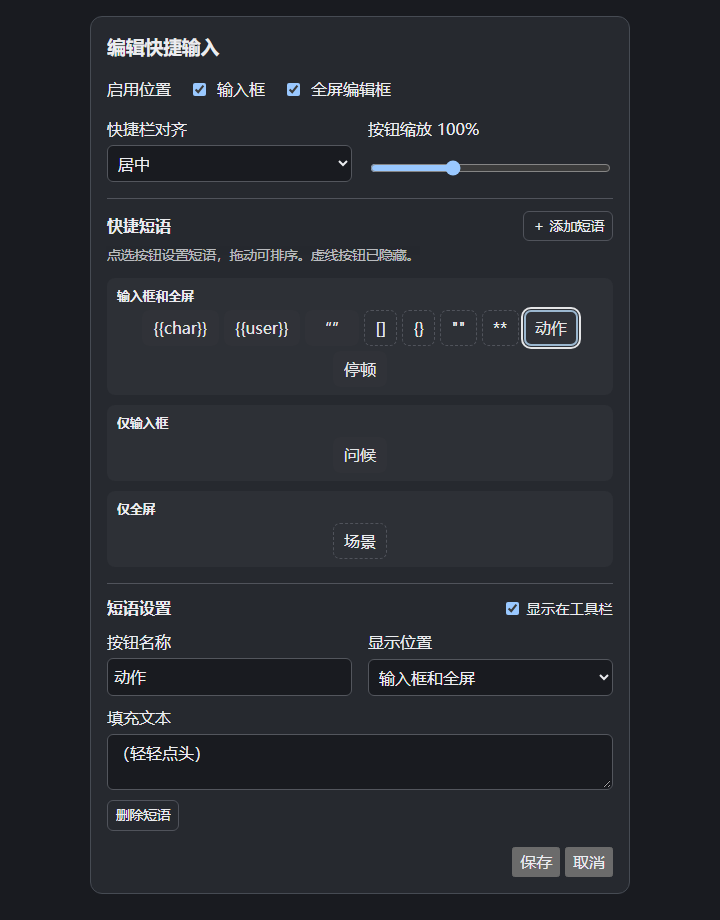
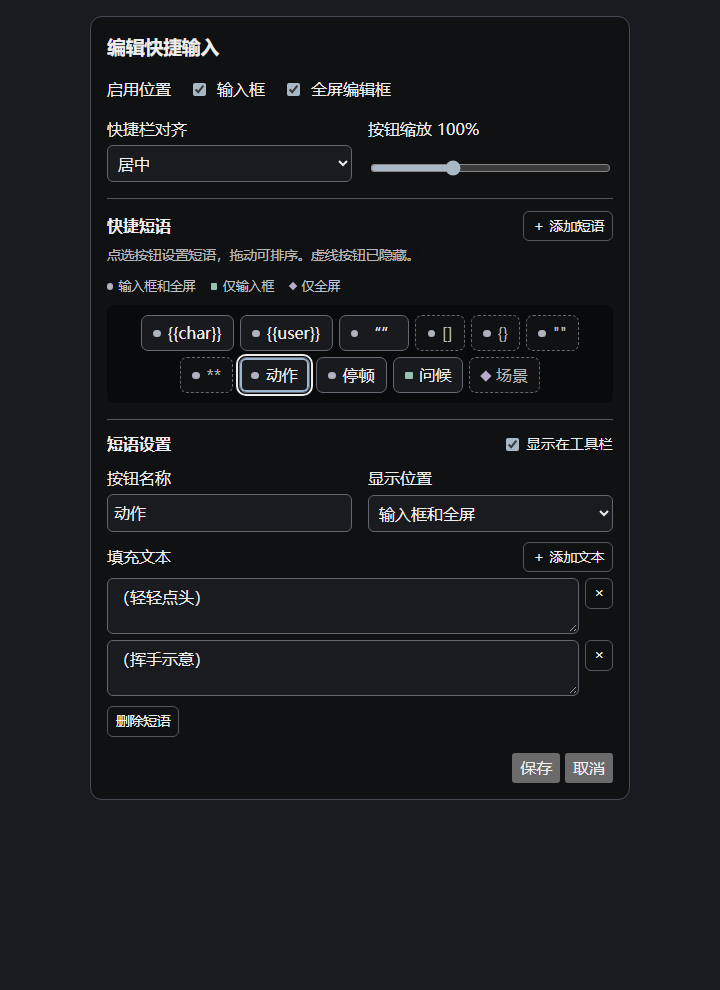
支持短语多文本随机填充与长按选择

diff --git a/tools/expanded-editor-shortcuts.js b/tools/expanded-editor-shortcuts.js
@@ -135,6 +135,79 @@ function renderSettings(canvas, config) {
     return addPhraseSettings(canvas, config);
 }
 
+function enableTextPicker(button, getEditor, shortcut) {
+    let timer;
+    let suppressClick = false;
+    function openPicker() {
+        const editor = getEditor();
+        if (!button.isConnected || !editor?.isConnected) return;
+        const { selectionStart: start, selectionEnd: end } = editor;
+        const dialog = document.createElement('dialog');
+        dialog.className = 'st-phrase-picker';
+        dialog.setAttribute('aria-label', shortcut.name + ' · 选择填充文本');
+        const heading = document.createElement('h4');
+        heading.textContent = shortcut.name + ' · 选择填充文本';
+        dialog.append(heading);
+        for (const value of shortcut.texts) {
+            const option = document.createElement('button');
+            option.type = 'button';
+            option.textContent = value;
+            option.onclick = () => {
+                dialog.close();
+                if (editor.isConnected) replaceRange(editor, start, end, value, start + value.length);
+            };
+            dialog.append(option);
+        }
+        const cancel = document.createElement('button');
+        cancel.type = 'button';
+        cancel.className = 'st-phrase-cancel';
+        cancel.textContent = '取消';
+        cancel.onclick = () => dialog.close();
+        dialog.append(cancel);
+        dialog.onclose = () => {
+            dialog.remove();
+            editor.focus({ preventScroll: true });
+        };
+        button.after(dialog);
+        dialog.showModal();
+    }
+    button.title = '单击随机填充，长按选择文本';
+    button.setAttribute('aria-haspopup', 'dialog');
+    button.addEventListener('pointerdown', down => {
+        if (!down.isPrimary || down.button !== 0) return;
+        clearTimeout(timer);
+        suppressClick = false;
+        button.setPointerCapture(down.pointerId);
+        timer = setTimeout(() => {
+            suppressClick = true;
+            openPicker();
+        }, 500);
+        button.onpointermove = event => {
+            if (Math.hypot(event.clientX - down.clientX, event.clientY - down.clientY) > 10) {
+                clearTimeout(timer);
+                suppressClick = true;
+            }
+        };
+    });
+    for (const type of ['pointerup', 'pointercancel', 'lostpointercapture']) {
+        button.addEventListener(type, () => {
+            clearTimeout(timer);
+            button.onpointermove = null;
+        });
+    }
+    button.oncontextmenu = event => event.preventDefault();
+    button.onkeydown = event => {
+        if (event.key === 'ArrowDown') {
+            event.preventDefault();
+            openPicker();
+        }
+    };
+    button.addEventListener('click', event => {
+        if (suppressClick && event.detail !== 0) event.stopImmediatePropagation();
+        suppressClick = false;
+    });
+}
+
 function createToolbar(getEditor, config, position) {
     const toolbar = document.createElement('div');
     toolbar.className = `flex-container wide100p ${toolbarClass}`;
@@ -144,7 +217,9 @@ function createToolbar(getEditor, config, position) {
     toolbar.setAttribute('role', 'group');
     toolbar.setAttribute('aria-label', position === 'chat' ? '聊天快捷输入' : '全屏编辑快捷输入');
     // Keep the textarea focused and preserve its selection when tapping a shortcut.
-    toolbar.addEventListener('pointerdown', event => event.preventDefault());
+    toolbar.addEventListener('pointerdown', event => {
+        if (!event.target.closest('dialog')) event.preventDefault();
+    });
 
     const shortcuts = getPhrases(config).filter(p => !p.hidden && (p.position === 'both' || p.position === position));
     for (const shortcut of shortcuts) {
@@ -152,6 +227,7 @@ function createToolbar(getEditor, config, position) {
         button.type = 'button';
         button.textContent = shortcut.name;
         button.dataset.position = shortcut.position;
+        if (shortcut.texts?.length > 1) enableTextPicker(button, getEditor, shortcut);
         if (shortcut.builtin === 'quotes') {
             button.setAttribute('aria-label', '插入或切换引号');
         }
@@ -166,7 +242,8 @@ function createToolbar(getEditor, config, position) {
                 togglePair(editor, shortcut.name);
             } else {
                 const { selectionStart: start, selectionEnd: end } = editor;
-                replaceRange(editor, start, end, shortcut.text, start + shortcut.text.length);
+                const text = shortcut.builtin ? shortcut.text : shortcut.texts[Math.floor(Math.random() * shortcut.texts.length)];
+                replaceRange(editor, start, end, text, start + text.length);
             }
         });
         toolbar.append(button);

diff --git a/tools/editor-phrases.js b/tools/editor-phrases.js
@@ -148,12 +148,43 @@ export function addPhraseSettings(canvas, config) {
         position.value = phrase.position;
         position.onchange = () => { phrase.position = position.value; drawLists(); };
         field('显示位置', position);
-        const text = element('textarea');
-        text.rows = 2;
-        text.required = true;
-        text.value = phrase.text;
-        text.oninput = () => { phrase.text = text.value; };
-        field('填充文本', text);
+        const alternatives = element('div', 'st-phrase-alternatives');
+        const title = element('div', 'st-phrases-heading');
+        const append = button('＋ 添加文本', 'st-phrase-action');
+        title.append('填充文本', append);
+        const inputs = element('div', 'st-phrase-inputs');
+        alternatives.append(title, inputs);
+        fields.append(alternatives);
+        function drawTexts() {
+            inputs.replaceChildren();
+            phrase.texts.forEach((value, index) => {
+                const row = element('div', 'st-phrase-text-row');
+                const text = element('textarea', 'text_pole');
+                text.rows = 2;
+                text.required = true;
+                text.setAttribute('aria-label', '填充文本 ' + (index + 1));
+                text.value = value;
+                text.oninput = () => { phrase.texts[index] = text.value; };
+                row.append(text);
+                if (phrase.texts.length > 1) {
+                    const removeText = button('×', 'st-phrase-action');
+                    removeText.setAttribute('aria-label', '删除填充文本 ' + (index + 1));
+                    removeText.onclick = () => {
+                        phrase.texts.splice(index, 1);
+                        drawTexts();
+                        inputs.querySelectorAll('textarea')[Math.min(index, phrase.texts.length - 1)].focus();
+                    };
+                    row.append(removeText);
+                }
+                inputs.append(row);
+            });
+        }
+        append.onclick = () => {
+            phrase.texts.push('');
+            drawTexts();
+            inputs.lastElementChild.querySelector('textarea').focus();
+        };
+        drawTexts();
         const remove = button('删除短语', 'st-phrase-action');
         remove.onclick = () => {
             phrases.splice(phrases.indexOf(phrase), 1);
@@ -165,17 +196,18 @@ export function addPhraseSettings(canvas, config) {
     }
 
     add.onclick = () => {
-        const phrase = { name: '', text: '', position: 'both' };
+        const phrase = { name: '', texts: [''], position: 'both' };
         phrases.push(phrase);
         select(phrase);
         settings.querySelector('.st-phrase-fields input').focus();
     };
     select(selected);
     return () => {
-        const invalid = phrases.find(item => !item.builtin && (!item.name.trim() || !item.text.length));
+        const invalid = phrases.find(item => !item.builtin && (!item.name.trim() || item.texts.includes('')));
         if (!invalid) return true;
         select(invalid);
-        const control = settings.querySelector(!invalid.name.trim() ? '.st-phrase-fields input' : 'textarea');
+        const control = !invalid.name.trim() ? settings.querySelector('.st-phrase-fields input')
+            : settings.querySelectorAll('textarea')[invalid.texts.indexOf('')];
         control.focus();
         control.setCustomValidity(!invalid.name.trim() ? '请填写按钮名称' : '请填写填充文本');
         control.reportValidity();

diff --git a/style.css b/style.css
@@ -44,7 +44,7 @@
     padding: 2px 6px 4px;
 }
 
-#send_form:not(:has(> #nonQRFormItems > #send_textarea:focus)) > .st-my-tweaks-chat-shortcuts {
+#send_form:not(:has(> #nonQRFormItems > #send_textarea:focus)) > .st-my-tweaks-chat-shortcuts:not(:has(dialog[open])) {
     display: none;
 }
 
@@ -124,6 +124,44 @@
 .st-phrase-fields label:has(textarea) { grid-column: 1 / -1; }
 .st-phrase-fields textarea { field-sizing: content; min-height: 3.5em; resize: vertical; }
 .st-phrase-fields button { justify-self: start; }
+.st-phrase-alternatives { grid-column: 1 / -1; }
+.st-phrase-inputs { display: grid; gap: 6px; margin-top: 6px; }
+.st-phrase-text-row { display: flex; align-items: start; gap: 6px; }
+.st-phrase-text-row textarea { flex: 1; min-width: 0; margin: 0; }
+.st-phrase-picker {
+    box-sizing: border-box;
+    position: fixed;
+    inset: 0;
+    margin: auto;
+    width: min(24rem, 90vw);
+    max-height: 75dvh;
+    overflow: auto;
+    background: #101113;
+    color: #ededee;
+    border: 1px solid #656971;
+    border-radius: 10px;
+    padding: 14px;
+    text-align: start;
+    text-shadow: none;
+    color-scheme: dark;
+}
+.st-phrase-picker::backdrop { background: rgb(0 0 0 / 65%); }
+.st-phrase-picker h4 { margin: 0 0 10px; overflow-wrap: anywhere; }
+.st-phrase-picker button {
+    display: block;
+    width: 100%;
+    margin-top: 6px;
+    padding: 8px 10px;
+    color: inherit;
+    background: #1a1b1e;
+    border: 1px solid #60636b;
+    border-radius: 6px;
+    text-align: start;
+    white-space: pre-wrap;
+    overflow-wrap: anywhere;
+    cursor: pointer;
+}
+.st-phrase-picker .st-phrase-cancel { width: auto; margin-inline-start: auto; }
 
 .st-my-tweaks-prompt-history {
     box-sizing: border-box;

diff --git a/tools/editor-phrase-catalog.js b/tools/editor-phrase-catalog.js
@@ -16,5 +16,9 @@ export function getPhrases(config) {
             missing.push({ builtin, ...definition, position: 'both', hidden: ['brackets', 'braces', 'straightQuotes', 'asterisks'].includes(builtin) });
         }
     }
-    return [...missing, ...saved];
+    return [...missing, ...saved.map(phrase => {
+        if (phrase.builtin || Array.isArray(phrase.texts)) return phrase;
+        const { text, ...settings } = phrase;
+        return { ...settings, texts: [text ?? ''] };
+    })];
 }

diff --git a/README.md b/README.md
@@ -131,6 +131,8 @@ Windows 创建符号链接需要启用开发者模式或使用有相应权限的
 
 「快捷短语」按统一顺序横向排列，圆点表示两处共用，方块表示仅输入框，菱形表示仅全屏，虚线按钮表示已隐藏。点选按钮后，在下方独立的「短语设置」区切换显隐；自定义短语还可修改名称、显示位置和填充文本，或删除。点击「添加短语」可新建。拖动按钮可排序，也可用左右方向键调整顺序。两个工具栏分别按列表顺序显示适用于当前位置的短语。
 
+自定义短语可以保存多条填充文本，每条都支持换行。在「短语设置」中点「添加文本」可追加候选项。单击快捷按钮会等概率插入其中一条；长按约半秒会列出全部候选，点选后插入光标处或替换原选区。取消选择会保留原文。旧版短语的文本会作为第一项保留。
+
 内置短语固定用于两处，可排序和切换显隐。除默认显示的两个宏和中文引号外，还有默认隐藏的 `[]`、`{}`、`""` 和 `**`。这些按钮在光标两侧各插入一个符号；有选区时包裹选区，再次点击可解除包裹。
 
 ## 提示词编辑工具栏
